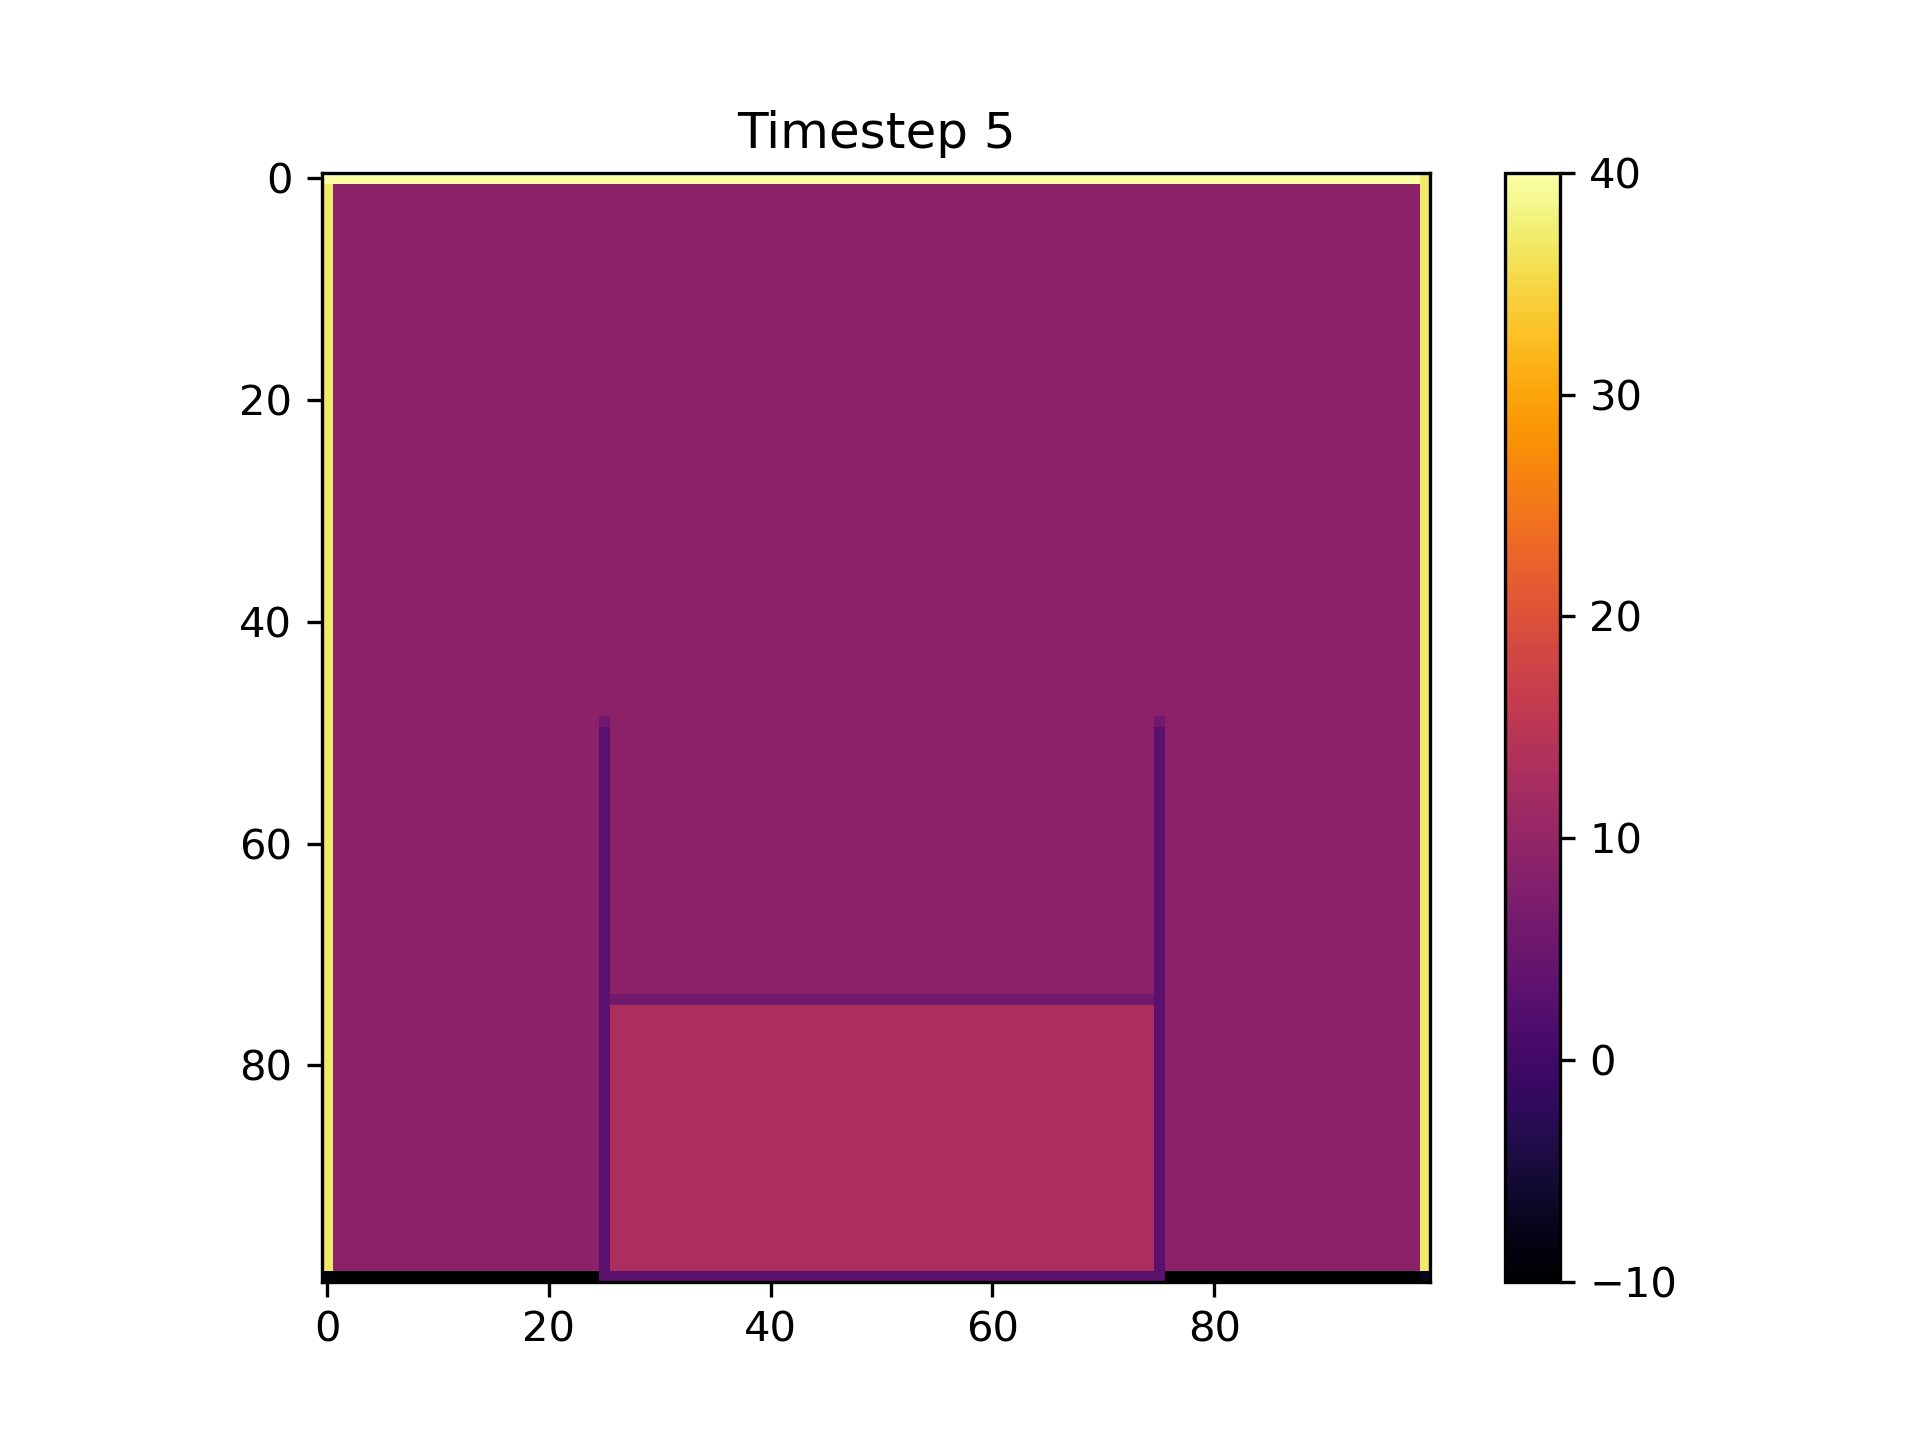
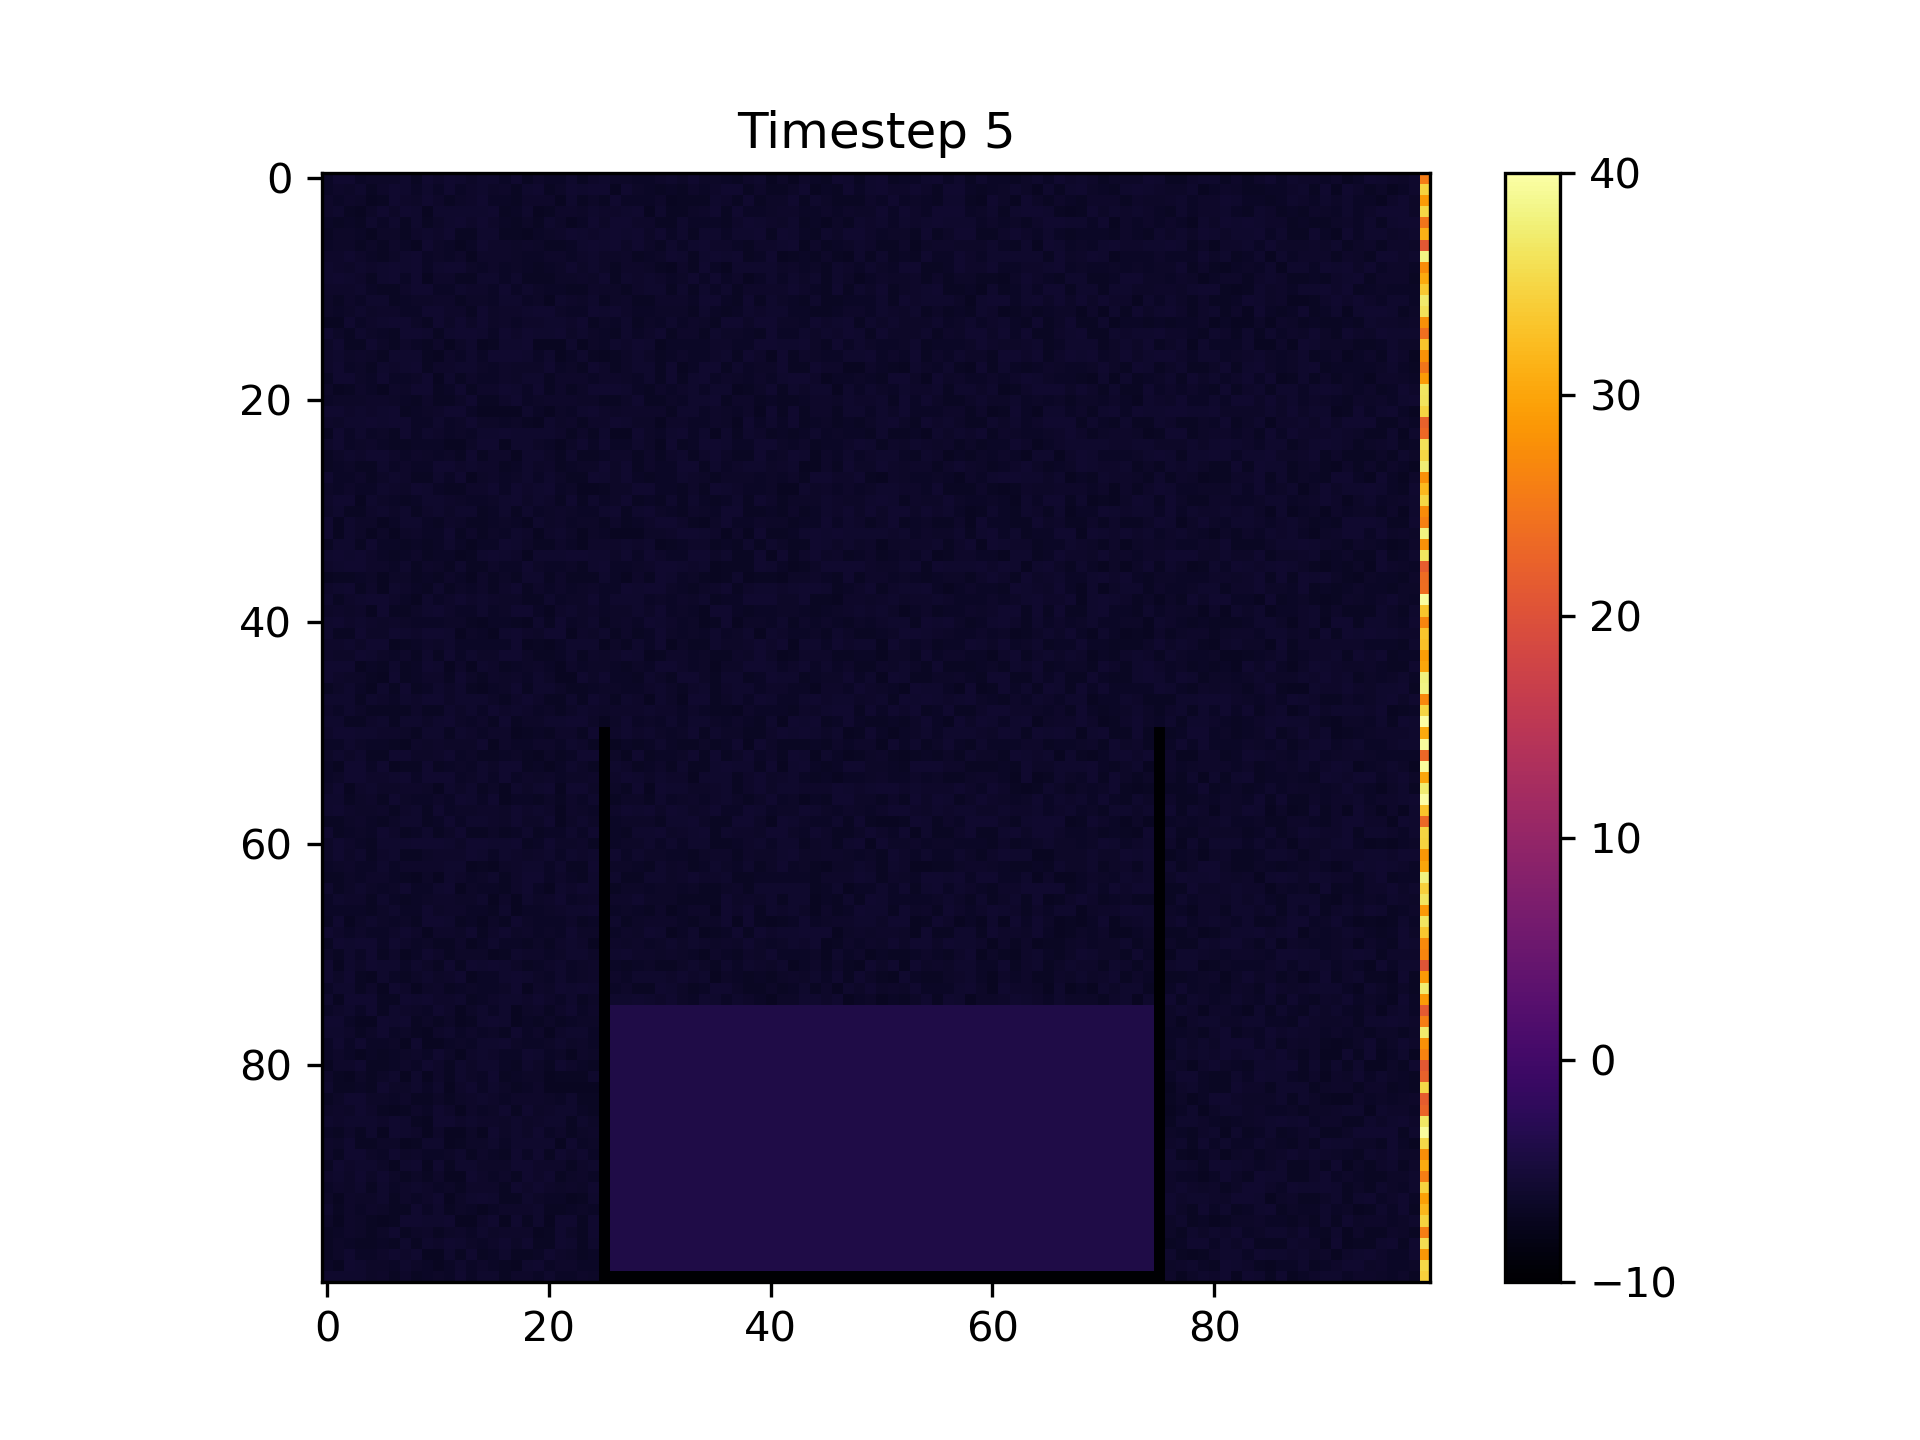
to heck with this

diff --git a/physics.py b/physics.py
@@ -9,8 +9,8 @@ def environmental(resX,resY):
     pre_fill = boolean; if True a container has been filled'''
     #sets up random raster conaining values between 0 and 1
 
-
-    temperature_raster = np.full(shape=(resX,resY),fill_value=20)
+    temperature_raster = np.array(np.random.uniform(low=15, high=25, size=(resX, resY)))
+    #temperature_raster = np.full(shape=(resX,resY),fill_value=20)
 
     return temperature_raster
 
@@ -67,6 +67,7 @@ def addContainer(raster, container_temp):
                  'container_tl':container_tl,
                  'container_br':container_br,
                  'container_tr':container_tr}
+    print(raster)
     return container
 
 #pre-fill container
@@ -129,7 +130,6 @@ def containerFill(container, temperature=20):
 #---------------------------------------------------------
 #                       PHYSICS STUFF
 
-
 def diffusion(in_raster, resX, resY, diffusion_index, container_temp, loss_over_time, iteration, diffusion_degree):
 
     """Calculates how much the liquid rises and diffuses energy
@@ -139,9 +139,9 @@ def diffusion(in_raster, resX, resY, diffusion_index, container_temp, loss_over_
 
 
     #set up a temporary raster to allow for energy transfer and pad the array to account for external influence
-    temporary_raster = np.full(shape=(resX, resY), fill_value=20-(iteration*loss_over_time))
-    temporary_raster[1:-1, 1:-1]=0
-    temporary_raster[-1]=container_temp
+    temporary_raster = np.zeros(shape=(resX,resY))
+    temporary_raster[1:-1, 1:-1] = 0
+    temporary_raster[-1] = container_temp
 
 
     #loop through and calculate energy transfer per cell
@@ -153,28 +153,22 @@ def diffusion(in_raster, resX, resY, diffusion_index, container_temp, loss_over_
         #loop through columns
         while x < resY:
 
-            temporary_raster = decider_diffusion(in_raster,temporary_raster,x,y, diffusion_index, diffusion_degree)
-
-            # add container (simulating cooling)
-            addContainer(temporary_raster,container_temp)
-
+            temporary_raster = decider_diffusion_temp(in_raster,temporary_raster,x,y, diffusion_index, diffusion_degree)
+            in_raster = decider_diffusion_in(in_raster,temporary_raster,x,y, diffusion_index, diffusion_degree)
 
 
             x+=1
         y+=1
 
     # pad again
-    pad = np.full(shape=(resX, resY), fill_value=15 - (loss_over_time*iteration))
-    pad[1:-1, 1:-1] = 0
-    pad[-1] = container_temp
-    temporary_raster = np.add(temporary_raster, pad)
+    temporary_raster[-1] = container_temp
 
 
     # add in_raster to temporary raster to compute diffusion of energy
     out_raster = np.add(in_raster, temporary_raster)
     return out_raster * (1-loss_over_time)
 
-def decider_diffusion(in_raster, temporary_raster, x, y, diffusion_index, diffusion_degree):
+def decider_diffusion_temp(in_raster, temporary_raster, x, y, diffusion_index, diffusion_degree):
     '''decides from where to where diffusion is taking place, is executed on each pixel'''
 
     #locate the pixel the decider is assessing (x = columns, y=rows)!
@@ -189,97 +183,72 @@ def decider_diffusion(in_raster, temporary_raster, x, y, diffusion_index, diffus
     for neighbour in neighbouring_cells:
         neighbour_values.append(in_raster[neighbour])
 
-    maximum = max(neighbour_values)
-    minimum = min(neighbour_values)
 
-    #get the index of both maximum and minimum
-    min_index = neighbour_values.index(minimum)
-    max_index = neighbour_values.index(maximum)
+    # calculate indices for neighbouring cells
+    neighs = []
+    for neighbour in neighbouring_cells:
 
-    # if pixel is within the range of other neighbours: diffuse from highest neigbour to pixel
-    if minimum < pixel < maximum:
+        x_temp = x + neighbour[0]
+        y_temp = y + neighbour[1]
+        neighs.append((x_temp,y_temp))
 
-        x_temp = x + neighbouring_cells[max_index][0]
-        y_temp = y + neighbouring_cells[max_index][1]
+    #get how many are legal (within bounds)
+    division = len(neighs)
 
-        if x_temp < 0 or y_temp < 0:
-            pass
-        elif x_temp > res or y_temp > res:
-            pass
-
-        else:
-            try:
-                temp_pixel = temporary_raster[x_temp, y_temp]
-                diff = diffusion_index * temp_pixel
-                temporary_raster[x,y] += diff
-                temporary_raster[x_temp, y_temp] -= diff
-            except IndexError:
+    #diffuse
+    for neigh in neighs:
+        try:
+            if neigh[1] < 0 or neigh[1] < 0:
+                pass
+            elif neigh[0] > res or neigh[0] > res:
                 pass
 
+            else:
+                try:
+                    temp_pixel = temporary_raster[neigh[0], neigh[1]]
+                    diff = (diffusion_index * pixel) / division
+                    temporary_raster[neigh[0], neigh[1]] += diff
+                except IndexError:
+                    pass
 
-
-
-    # if pixel is higher than any neighbour: diffuse part of pixel to lowest neighbour
-    elif pixel < minimum:
-
-        x_temp = x + neighbouring_cells[min_index][0]
-        y_temp = y + neighbouring_cells[min_index][1]
-
-        if x_temp < 0 or y_temp < 0:
+        except IndexError:
             pass
-        elif x_temp > res or y_temp > res:
-            pass
-
-        else:
-            try:
-                diff = diffusion_index * pixel
-                temporary_raster[x, y] -= diff
-                temporary_raster[x_temp, y_temp] += diff
-            except IndexError:
-                pass
-
-
-    # if pixel is lower than any neighbour: diffuse from highest neigbour to pixel
-    elif pixel < minimum:
-
-        x_temp = x + neighbouring_cells[max_index][0]
-        y_temp = y + neighbouring_cells[max_index][1]
-
-        if x_temp < 0 or y_temp < 0:
-            pass
-        elif x_temp > res or y_temp > res:
-            pass
-
-        else:
-            try:
-                temp_pixel = temporary_raster[x_temp, y_temp]
-                diff = diffusion_index * temp_pixel
-                temporary_raster[x, y] += diff
-                temporary_raster[x_temp, y_temp] -= diff
-            except IndexError:
-                pass
-
-    #if pixel is encompassed with other pixels of exact same value, distribute upwards
-    elif pixel == minimum == maximum:
-        diff = diffusion_index * pixel
-        x_temp = x - 1
-        y_temp = y
-
-        if x_temp < 0 or y_temp < 0:
-            pass
-        elif x_temp > res or y_temp > res:
-            pass
-
-        else:
-            try:
-                temporary_raster[x, y] -= diff
-                temporary_raster[x_temp, y_temp] += diff
-            except IndexError:
-                pass
-
-
 
     return temporary_raster
+
+def decider_diffusion_in(in_raster, temporary_raster, x, y, diffusion_index, diffusion_degree):
+    '''decides from where to where diffusion is taking place, is executed on each pixel'''
+
+    #locate the pixel the decider is assessing (x = columns, y=rows)!
+    pixel = in_raster[x, y]
+    res = np.shape(in_raster)[0]
+
+    #set up to record neighbouring cells
+    neighbouring_cells = neighbourhood(x,y,diffusion_degree)
+    neighbour_values = []
+
+    #record neighbouring cells' values, as well as maxima/minima
+    for neighbour in neighbouring_cells:
+        neighbour_values.append(in_raster[neighbour])
+
+
+    # calculate indices for neighbouring cells
+    neighs = []
+    for neighbour in neighbouring_cells:
+
+        x_temp = x + neighbour[0]
+        y_temp = y + neighbour[1]
+        neighs.append((x_temp,y_temp))
+
+    #get how many are legal (within bounds)
+    division = len(neighs)
+
+    #diffuse
+
+    diff = (diffusion_index * pixel) / division
+    in_raster[x, y] -= diff
+
+    return in_raster
 
 def maxCounter(list):
 
@@ -313,6 +282,8 @@ def neighbourhood(x,y,degree):
         a += 1
 
     return neighbours
+
+
 
 
 

diff --git a/visualizer.py b/visualizer.py
@@ -22,8 +22,8 @@ container_temp = -10
 pre_fill = True
 fill_temp = 40
 filling_height = 0.75
-diffusion_index = 0.75
-diffusion_degree = 12
+diffusion_index = 0.5
+diffusion_degree = 2
 loss_over_time = 0
 
 # set up list to convert output to gif
@@ -33,7 +33,7 @@ gif_duration = 0.5 #second(s)
 
 #set up iteration
 iteration = 0
-temperature_raster = np.zeros((resX,resY))
+temperature_raster = np.zeros(shape=(resX,resY))
 
 
 while iteration < timesteps:
@@ -49,14 +49,10 @@ while iteration < timesteps:
 
 
     else:
-        #get materials from initial raster
-        mats = materials(temperature_raster, resX, resY, fill_temp)
 
         # calculate temperature diffusion and updraft
-        temperature_raster = diffusion(temperature_raster, resX, resY, diffusion_index, container_temp, loss_over_time, iteration, diffusion_degree)
+        diffusion(temperature_raster, resX, resY, diffusion_index, container_temp, loss_over_time, iteration, diffusion_degree)
 
-        # add container (for visuals)
-        container = addContainer(temperature_raster, container_temp)
 
 
 
